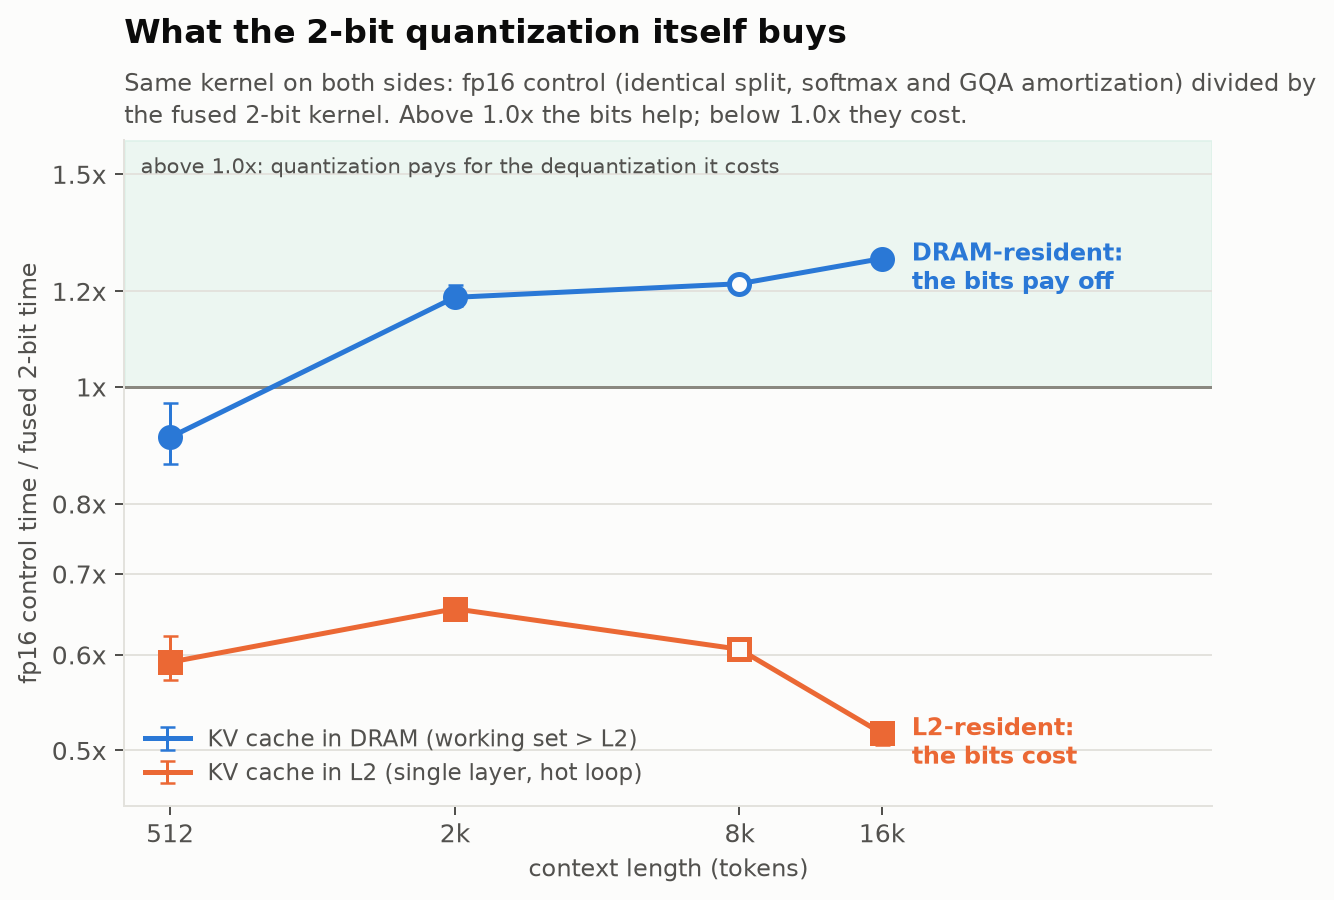
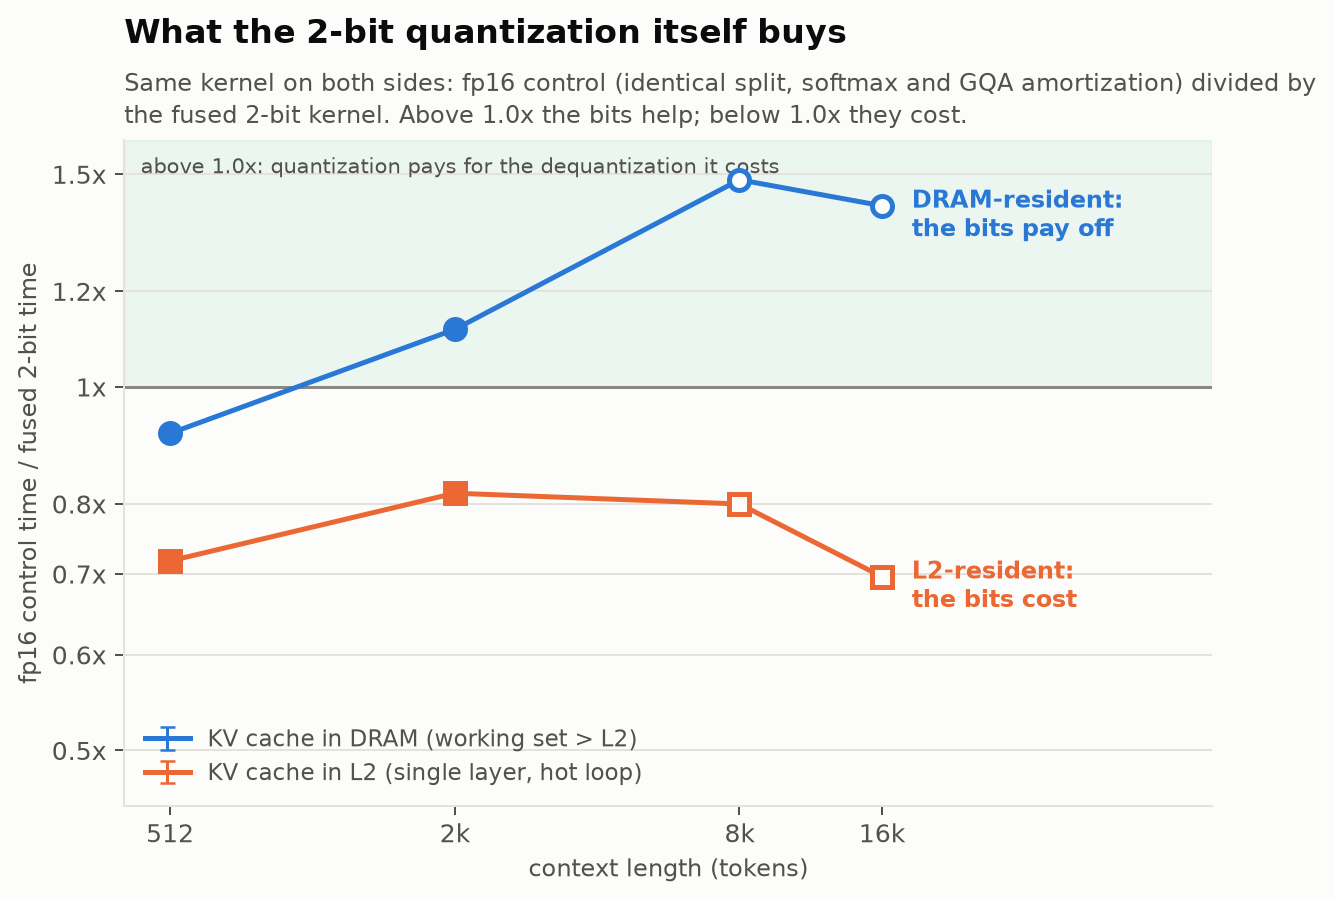
Re-run with the fixed ramp: 25/48 -> 39/48 quotable, and no gate was touched
benchmark.py --samples 50, 861 s, one change since the last run (the ramp now
warms DRAM as well as the SMs).

  quotable rows          25/48 -> 39/48   (all 9 rejections are dispersion;
                                           zero clock rejections)
  dispersion failures    25/96 -> 9/96    (4 drift, 2 wander, 3 white jitter)
  audit                  21 TRUE / 25 CONDITIONAL -> 28 TRUE / 18 CONDITIONAL
                         (10 MISLEADING / 12 FALSE unchanged, 68 claims)

No threshold was relaxed to get any of that; the gates are unchanged.

The finding does not move. The speedup is still the flash-decoding split (now
10-68x on quotable rows) and quantization is still a rounding error on top whose
sign depends on L2 residency. What is new is that two contexts have every input
passing simultaneously instead of one:

  ctx    split L2 / DRAM     quant L2 / DRAM    all rows quotable
  512      14.1x   10.4x       0.72x   0.91x    yes
  2048     26.1x   15.9x       0.90x   1.17x    yes
  8192     53.3x   23.4x       0.83x   1.27x    no
  16384    68.3x   24.8x       0.63x   1.36x    no

ctx=512 says something the old data could not: at short context quantization
loses in *both* regimes, which states the conditional more sharply than "it pays
above L2".

Remaining known bias: the audit's memory-clock check still fires on five
DRAM-resident claims, because methods are measured in sequence and rows minutes
[…]

diff --git a/make_session_plots.py b/make_session_plots.py
@@ -31,6 +31,18 @@ from make_plots import (
 RECORDED = {
     "instructions": {"gather": 2245, "broadcast": 1653},
     "code_bcast_regs": 223,
+    # Median within-window timing drift before the ramp was made bandwidth-aware,
+    # by regime and by whether the memory clock moved during the window. Recorded
+    # rather than recomputed because the benchmark.json it came from has been
+    # overwritten by the post-fix run -- which is the point of the figure.
+    "mem_drift_before": {
+        ("DRAM-resident", False): -5.6, ("DRAM-resident", True): -0.9,
+        ("L2-resident", False): -1.6, ("L2-resident", True): -3.1,
+    },
+    "mem_windows_before": {
+        ("DRAM-resident", False): 22, ("DRAM-resident", True): 26,
+        ("L2-resident", False): 12, ("L2-resident", True): 36,
+    },
     # clock samples per measurement window, full run before the min-sample fix
     "clock_hist_before": {1: 28, 2: 5, 3: 2, 4: 4, 8: 2, 9: 19, 10: 14,
                           11: 1, 12: 2, 13: 1, 14: 2, 17: 5, 18: 3,
@@ -568,8 +580,18 @@ def plot_mem_clock_gate(payload: dict):
             ax.scatter(x, y, s=30, color=colour, alpha=0.75, edgecolor="none")
             m = float(np.median(y))
             ax.plot([i - 0.26, i + 0.26], [m, m], color=INK, lw=2.0, zorder=4)
-            ax.text(i + 0.30, m, f"median {m:+.1f}%", va="center", fontsize=9,
+            ax.text(i + 0.30, m, f"now {m:+.1f}%", va="center", fontsize=9,
                     color=INK)
+            # The same statistic before the ramp was made bandwidth-aware. It
+            # cannot be recomputed -- the run it came from has been replaced by
+            # the one plotted here -- so it is drawn as a recorded reference.
+            before = RECORDED["mem_drift_before"].get((regime, held))
+            if before is not None:
+                nb = RECORDED["mem_windows_before"].get((regime, held))
+                ax.plot([i - 0.26, i + 0.26], [before, before], color=MUTED,
+                        lw=1.8, ls=(0, (4, 2)), zorder=4)
+                ax.text(i + 0.30, before, f"was {before:+.1f}%  (n={nb})",
+                        va="center", fontsize=8.5, color=MUTED)
             # Axis-fraction y: the data limits are still growing while the
             # groups are drawn, so a data-space position lands on a point.
             ax.text(i, 0.015, f"n={len(sel)}", ha="center", va="bottom",
@@ -587,11 +609,12 @@ def plot_mem_clock_gate(payload: dict):
 
     figure_header(
         fig,
-        "The warm-up drove the SM clock and never touched memory",
-        "So the memory P-state stepped up during the measurement instead of before it.\n"
-        "Under load this card runs memory at 9001 or 11001 MHz - a 20% swing - and a\n"
-        "bandwidth-bound window spanning that step is two measurements averaged.\n"
-        "Each point is one measurement; y is the trend across its own window.",
+        "Warming the memory system first removed the systematic drift",
+        "The old warm-up was a cache-resident GEMM: it drove the SM clock and asked the\n"
+        "memory system for nothing, so the P-state stepped up during the measurement.\n"
+        "Points are measurements AFTER the fix; dashed lines are the same medians\n"
+        "BEFORE it (recorded - that run has been replaced). Note the fix made the\n"
+        "memory clock move MORE, which is why it is not something to gate on.",
     )
     save(fig, "mem_clock_gate")
 

diff --git a/docs/progress_log.md b/docs/progress_log.md
@@ -660,3 +660,58 @@ fused kernel, the numerator is smaller, and the reported quantization benefit is
 **understated** rather than inflated. The long-context sign flip is not an
 artefact of this. But "the bias happens to point away from my thesis" is a fact
 about one run, not a property of the measurement.
+
+
+---
+
+## 2026-09-01 23:45 — The re-run, which is the only thing that settles it
+
+`benchmark.py --samples 50` against the bandwidth-aware ramp, 861 s.
+
+**Quotable rows: 25/48 → 39/48.** Every remaining rejection is dispersion; there
+are no clock rejections at all. Running the dispersion decomposition again:
+**9 of 96 measurements fail, down from 25** — 4 drift, 2 wander, 3 white jitter.
+The failing rows now pin their medians to ±1.60% against ±0.14% for the passing
+ones.
+
+**Audit: 68 claims, 28 TRUE / 18 CONDITIONAL / 10 MISLEADING / 12 FALSE**
+(was 21 / 25 / 10 / 12). Seven claims moved from conditional to established, and
+not one of them moved because a threshold was relaxed — the measurement got
+better.
+
+**The attribution, recomputed.** `×` is `fp16_sdpa / triton_fp16_control` for the
+split and `triton_fp16_control / fused_triton_4b` for the quantization, so above
+1.00 means the thing helps:
+
+| ctx | split, L2 | split, DRAM | quant, L2 | quant, DRAM | all three rows quotable |
+|---|---|---|---|---|---|
+| 512 | 14.1× | 10.4× | 0.72× | 0.91× | **yes** |
+| 2048 | 26.1× | 15.9× | **0.90×** | **1.17×** | **yes** |
+| 8192 | 53.3× | 23.4× | 0.83× | 1.27× | no |
+| 16384 | 68.3× | 24.8× | 0.63× | 1.36× | no |
+
+The headline is unchanged and better supported: the win is the flash-decoding
+split, and quantization is a rounding error on top of it whose *sign* depends on
+whether the working set fits in L2. Two contexts now have every input passing the
+gate simultaneously rather than one, and ctx=512 says something the old data
+could not — at short context quantization loses in **both** regimes, which is a
+cleaner statement of the conditional than "it pays above L2".
+
+**What is left, and it is the last known bias.** The audit's memory-clock check
+still fires on five DRAM-resident claims, because the methods are measured in
+sequence and rows minutes apart average different P-states:
+
+```
+cold.4b.ctx512    fused 10430 vs control 11358 MHz   (9%)
+cold.4b.ctx2048   fused 11358 vs control 11001 MHz   (3%)
+cold.4b.ctx8192   fused  9934 vs control 11001 MHz  (11%)
+cold.2b.ctx512    fused 10068 vs control 11358 MHz  (13%)
+cold.2b.ctx2048   fused 11334 vs control 11001 MHz   (3%)
+```
+
+Note the direction is not consistent: at ctx=2048 the *fused* kernel had the
+faster memory, which inflates the 1.17×; at 8192 the control did, which deflates
+the 1.27×. So this is not a bias with a convenient sign, it is a bias with no
+sign at all — which is worse, because it cannot be argued away in either
+direction. The fix is structural: measure the methods **interleaved** rather than
+in sequence, so a slow drift in clock state lands on all of them equally.

diff --git a/docs/next_steps.md b/docs/next_steps.md
@@ -13,9 +13,10 @@ Everything below is verified on this machine, not assumed.
   **RTX 5060 Laptop, sm_120, 26 SMs, 8 GB, 33.6 MB L2, 80 W**.
   Run things as `./.venv/Scripts/python.exe ...` — no activation needed.
 - `python -m pytest test_correctness.py -q` → **106 passed in ~89 s**.
-- `python benchmark.py --samples 50` → ~7.5 min, clock-monitored, writes
-  `results/benchmark.json`. Last run: **25/48 rows quotable**, and every
-  rejection is dispersion — there are no clock rejections left.
+- `python benchmark.py --samples 50` → ~14 min, clock-monitored, writes
+  `results/benchmark.json`. Last run: **39/48 rows quotable** (was 25/48
+  before the ramp fix), and every rejection is dispersion — there are no
+  clock rejections left. Run it with `python -u` or the log stays buffered.
 - `python make_plots.py` → 8 figures in `docs/plots/`;
   `python make_session_plots.py` → 6 more (2 need `results/gs_sweep.json`).
 - `python sweep_group_size.py --contexts 512 2048 8192` → ~3.5 min, 24 cells,
@@ -24,17 +25,19 @@ Everything below is verified on this machine, not assumed.
 - README, `docs/key_numbers.md`, `docs/thread_outline.md`.
 
 **The headline finding, in its current form:** the fused kernel's win over
-PyTorch SDPA is almost entirely the flash-decoding split (10–26× on quotable
-rows), not the quantization. Quantization *costs* ~1.1–1.35× when the KV cache
-is L2-resident and pays 1.22–1.47× when the working set exceeds L2. At ctx=2048
-the sign flip is now fully clock-verified with every input passing the gate:
-**0.90× L2-resident, 1.22× DRAM-resident.**
+PyTorch SDPA is almost entirely the flash-decoding split (10–68× on quotable
+rows), not the quantization. Quantization *costs* 1.11–1.58× when the KV cache
+is L2-resident and pays 1.17–1.48× when the working set exceeds L2 and the
+context is 2k or more. Two contexts now have every input passing the gate
+simultaneously: **ctx=512 → 0.72× L2 / 0.91× DRAM** (quantization loses in
+*both* regimes at short context) and **ctx=2048 → 0.90× L2 / 1.17× DRAM**
+(the sign flip itself).
 
 ## Do this first
 
 Nothing is blocking. `results/audit.{md,json}` are current (regenerated
-2026-09-01 22:30, **68 claims: 21 TRUE / 25 CONDITIONAL / 10 MISLEADING /
-12 FALSE**), and the audit now takes ~20 s rather than ~13 min, so re-run it
+2026-09-01 23:35 against the post-ramp-fix benchmark, **68 claims: 28 TRUE /
+18 CONDITIONAL / 10 MISLEADING / 12 FALSE**), and the audit now takes ~20 s rather than ~13 min, so re-run it
 after any benchmark run without thinking about it:
 
 ```

diff --git a/README.md b/README.md
@@ -323,8 +323,10 @@ broadcast, versus the same kernel with the gather) and
 `optimization.zero_point_fold` (which it marks `FALSE` on speed, since it clears
 the 1.05× bar at no context in either regime).
 
-Current run against `results/benchmark.json` (2026-09-01 19:00):
-**68 claims — 21 TRUE / 25 TRUE BUT CONDITIONAL / 10 MISLEADING / 12 FALSE.**
+Current run against `results/benchmark.json` (2026-09-01 23:30):
+**68 claims — 28 TRUE / 18 TRUE BUT CONDITIONAL / 10 MISLEADING / 12 FALSE.**
+Seven claims moved from conditional to established when the clock ramp was
+fixed, and none of them because a threshold was relaxed.
 Regenerate with `./.venv/Scripts/python.exe audit_claims.py` (~20 s) and read
 `results/audit.md`. Two of those verdicts moved this session for reasons that
 were in the auditor rather than in the kernel:
@@ -418,7 +420,7 @@ one run, not a property of the measurement.
 
 ### What the dispersion gate actually measures
 
-23 of 48 rows fail the `IQR ≤ 5% of median` half of the gate.
+After the ramp fix, 9 of 48 rows fail the `IQR ≤ 5% of median` half of the gate — it was 23 before, and the analysis below is what the 23 looked like.
 `analyze_dispersion.py` decomposes all 96 measurements to find out whether the
 two fixes this repo had written down — shorter windows, or longer ones — would
 work. Mostly they would not: only **8 of 25** failures carry a significant trend,
